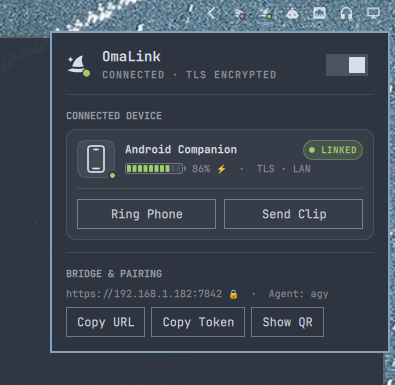
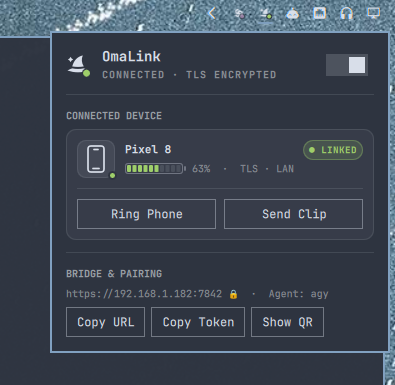
Release v3.7.0: Real phone name in top bar, active-only charging bolt, Find My Phone stop alert, and updated screenshots

diff --git a/README.md b/README.md
@@ -2,7 +2,7 @@
 
 **Android Continuity, Remote Desktop, Trackpad, OS Control, and AI Agent companion for Omarchy Linux** — featuring a zero-dependency Python bridge, an Omarchy top-bar plugin (`omalink.panel`), live Omarchy theme syncing, silent notification-shade machine vitals + Agy limits, and 5 animated stylized mascots & switchable Android app icons.
 
-> **Latest Android APK (`v3.6.0`):** Download `app-release.apk` and `SHA256SUMS` from [GitHub Release v3.6.0](https://github.com/M30W-M1X/omalink/releases/tag/v3.6.0) and verify with `grep '  app-release.apk$' SHA256SUMS | sha256sum -c -`.
+> **Latest Android APK (`v3.7.0`):** Download `app-release.apk` and `SHA256SUMS` from [GitHub Release v3.7.0](https://github.com/M30W-M1X/omalink/releases/tag/v3.7.0) and verify with `grep '  app-release.apk$' SHA256SUMS | sha256sum -c -`.
 
 ---
 
@@ -46,21 +46,21 @@ See [AGENT_INSTALL.md](AGENT_INSTALL.md) for the full deterministic AI agent run
 
 ### Option 3 — Digest-Verified & Commit-Pinned Release Installer
 
-Download `install.sh` and `SHA256SUMS` for `v3.6.0`, verify the exact `install.sh` artifact against its published SHA-256 digest, inspect it, and run it pinned to the immutable 40-character commit SHA (`fa87f855b413e5afe25dda11e473623a6761aa33`):
+Download `install.sh` and `SHA256SUMS` for `v3.7.0`, verify the exact `install.sh` artifact against its published SHA-256 digest, inspect it, and run it pinned to the immutable 40-character commit SHA (`adfceb68b87fc9e7def2ddf40269b011381dc789`):
 
 ```bash
-curl -fsSLO https://github.com/M30W-M1X/omalink/releases/download/v3.6.0/install.sh
-curl -fsSLO https://github.com/M30W-M1X/omalink/releases/download/v3.6.0/SHA256SUMS
-echo "7d4805d59bf59b0a256109f2133f1b18d3c01f171166ed3cf9452796f19270c2  install.sh" | sha256sum -c -
+curl -fsSLO https://github.com/M30W-M1X/omalink/releases/download/v3.7.0/install.sh
+curl -fsSLO https://github.com/M30W-M1X/omalink/releases/download/v3.7.0/SHA256SUMS
+echo "38806498815647abbbba5244a76eb9cb090b0e95983e0ae4b98bfb26c8b3a360  install.sh" | sha256sum -c -
 grep '  install.sh$' SHA256SUMS | sha256sum -c -
 less install.sh
-bash install.sh --ref fa87f855b413e5afe25dda11e473623a6761aa33
+bash install.sh --ref adfceb68b87fc9e7def2ddf40269b011381dc789
 ```
 
 Before starting `omalink-bridge.service`, `install.sh` also verifies the SHA-256 digest of every runtime bridge and plugin file (`manifest.json`, `bridge/*.py`, `omarchy-plugin/*`).
 
 Useful installer flags:
-- `./install.sh --ref fa87f855b413e5afe25dda11e473623a6761aa33` — bind remote clone to an immutable 40-char commit SHA (default: `fa87f855b413e5afe25dda11e473623a6761aa33`, release `v3.6.0`)
+- `./install.sh --ref adfceb68b87fc9e7def2ddf40269b011381dc789` — bind remote clone to an immutable 40-char commit SHA (default: `adfceb68b87fc9e7def2ddf40269b011381dc789`, release `v3.7.0`)
 - `./install.sh --json` — machine-readable JSON output (used by AI agents)
 - `./install.sh --check --json` — read-only health, service, plugin & tool diagnostics
 - `./install.sh --tls` — enable self-signed TLS 1.2+ with SHA-256 pinning (enabled by default)
@@ -74,10 +74,10 @@ No Python pip dependencies are required — the bridge runs on **Python 3.11+ st
 
 ## Pairing Your Android Phone
 
-1. Download `app-release.apk` and `SHA256SUMS` from [GitHub Release v3.6.0](https://github.com/M30W-M1X/omalink/releases/tag/v3.6.0) and verify the APK digest before installing:
+1. Download `app-release.apk` and `SHA256SUMS` from [GitHub Release v3.7.0](https://github.com/M30W-M1X/omalink/releases/tag/v3.7.0) and verify the APK digest before installing:
    ```bash
-   curl -fsSLO https://github.com/M30W-M1X/omalink/releases/download/v3.6.0/app-release.apk
-   curl -fsSLO https://github.com/M30W-M1X/omalink/releases/download/v3.6.0/SHA256SUMS
+   curl -fsSLO https://github.com/M30W-M1X/omalink/releases/download/v3.7.0/app-release.apk
+   curl -fsSLO https://github.com/M30W-M1X/omalink/releases/download/v3.7.0/SHA256SUMS
    grep '  app-release.apk$' SHA256SUMS | sha256sum -c -
    ```
 2. Click the **OmaLink badge** in your Omarchy top bar — it displays a live **QR code** by default (or run `./install.sh --show-pairing` in a local terminal).
@@ -108,9 +108,10 @@ No Python pip dependencies are required — the bridge runs on **Python 3.11+ st
   - Low-latency Wayland screen stream (`grim`), pan/zoom, virtual mouse pointer (`zwlr_virtual_pointer_manager_v1`), and keyboard input (`wtype`).
   - Dedicated **Wireless Trackpad & Presentation Remote** (1-finger move/tap, 2-finger scroll, scroll strip, L/M/R clicks, and slide navigation).
 - **Continuity (Phone ↔ Omarchy)**
+  - **Omarchy Top-Bar Connected Device Card:** Displays your phone's real device name (e.g. `Pixel 8`), a 10-segment visual battery gauge (showing `⚡` only when actively charging), `● LINKED` badge, 1-click **Ring Phone** & **Send Clip** (pushes desktop Wayland clipboard to your phone), and an inline notification quick-reply bubble.
   - Mirrors incoming Android notifications and calls onto your Hyprland desktop (`notify-send`) with **inline quick-reply** back to Android `RemoteInput`.
   - **Universal Clipboard** with automatic history sync and **Continue on Omarchy** Android Share Sheet target (share any link from Chrome/YouTube/Spotify to open it directly on Omarchy).
-  - **Find My Phone** ringer from desktop + phone battery readout in the Omarchy top-bar plugin.
+  - **Find My Phone with 1-Tap Stop Ringing:** Trigger an alarm ring from the Omarchy top bar or Control Plane and silence it immediately on your phone via the pop-up **Find My Phone Alert** dialog or the lock-screen notification's **Stop Ringing** button (just like Apple Find My iPhone).
 - **Interactive PTY Terminal & 2-Way File Explorer**
   - Full login shell over WebSockets (`/ws/terminal`) with `xterm` rendering and quick-key toolbar (`CTRL`, `ESC`, `TAB`, `^C`, `^D`, `^L`, arrows).
   - Browse directories, preview files, upload/download photos & files between phone and desktop, rename, Trash (`gio trash`), open on desktop (`xdg-open`), or hand paths straight to an AI agent.

diff --git a/AGENT_INSTALL.md b/AGENT_INSTALL.md
@@ -33,11 +33,11 @@ Requirements:
 
 ```bash
 # Option A: Download release installer, verify exact SHA-256 digest, and run pinned to immutable 40-char commit SHA
-curl -fsSLO https://github.com/M30W-M1X/omalink/releases/download/v3.6.0/install.sh
-curl -fsSLO https://github.com/M30W-M1X/omalink/releases/download/v3.6.0/SHA256SUMS
-echo "7d4805d59bf59b0a256109f2133f1b18d3c01f171166ed3cf9452796f19270c2  install.sh" | sha256sum -c -
+curl -fsSLO https://github.com/M30W-M1X/omalink/releases/download/v3.7.0/install.sh
+curl -fsSLO https://github.com/M30W-M1X/omalink/releases/download/v3.7.0/SHA256SUMS
+echo "38806498815647abbbba5244a76eb9cb090b0e95983e0ae4b98bfb26c8b3a360  install.sh" | sha256sum -c -
 grep '  install.sh$' SHA256SUMS | sha256sum -c -
-bash install.sh --ref fa87f855b413e5afe25dda11e473623a6761aa33 --json
+bash install.sh --ref adfceb68b87fc9e7def2ddf40269b011381dc789 --json
 
 # Option B: Install as an Omarchy Plugin Marketplace git plugin
 omarchy plugin add https://github.com/M30W-M1X/omalink.git --enable --yes
@@ -45,8 +45,8 @@ omarchy plugin add https://github.com/M30W-M1X/omalink.git --enable --yes
 
 # Option C: From a local checkout bound to the immutable 40-char commit SHA
 git clone --no-checkout https://github.com/M30W-M1X/omalink.git ~/.local/share/omalink
-git -C ~/.local/share/omalink fetch --depth 1 origin fa87f855b413e5afe25dda11e473623a6761aa33
-git -C ~/.local/share/omalink checkout --detach fa87f855b413e5afe25dda11e473623a6761aa33
+git -C ~/.local/share/omalink fetch --depth 1 origin adfceb68b87fc9e7def2ddf40269b011381dc789
+git -C ~/.local/share/omalink checkout --detach adfceb68b87fc9e7def2ddf40269b011381dc789
 cd ~/.local/share/omalink
 ./install.sh --json
 ```
@@ -106,7 +106,7 @@ sudo ufw allow 7842/tcp
 
 Give the user a concise summary with:
 1. **Service & Plugin status** (active bridge port, LAN / Tailscale IP, top-bar `omalink.panel` badge enabled).
-2. **Android APK download & digest verification (`v3.6.0`)**: `https://github.com/M30W-M1X/omalink/releases/tag/v3.6.0` (download `app-release.apk` and `SHA256SUMS`, then verify with `grep '  app-release.apk$' SHA256SUMS | sha256sum -c -`).
+2. **Android APK download & digest verification (`v3.7.0`)**: `https://github.com/M30W-M1X/omalink/releases/tag/v3.7.0` (download `app-release.apk` and `SHA256SUMS`, then verify with `grep '  app-release.apk$' SHA256SUMS | sha256sum -c -`).
 3. **Pairing instructions**:
    - Click the **OmaLink icon in the Omarchy top bar** to display the live pairing QR code (or run `./install.sh --show-pairing` locally in a private terminal).
    - Scan with your phone camera (opens `omalink://pair?...`) or open **OmaLink** on Android -> **Sanctum** -> **Scan LAN (mDNS)**.
